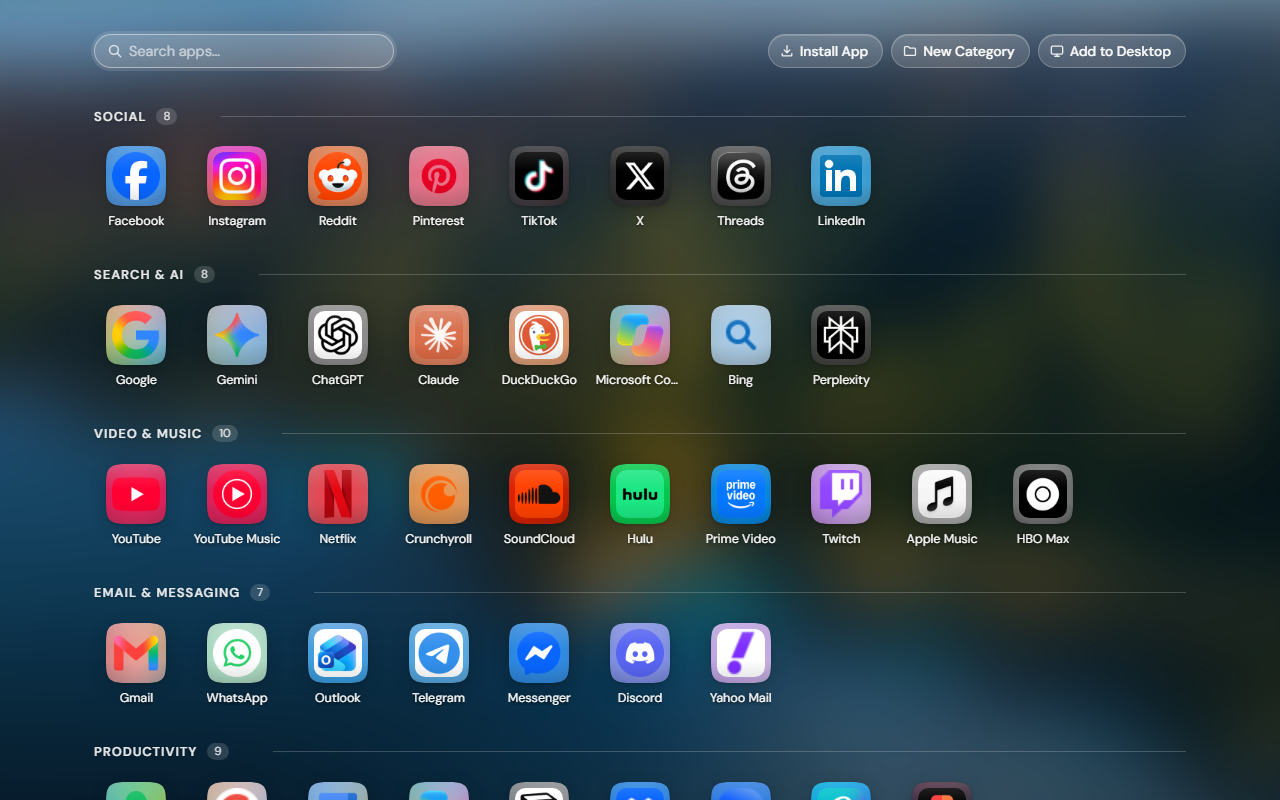
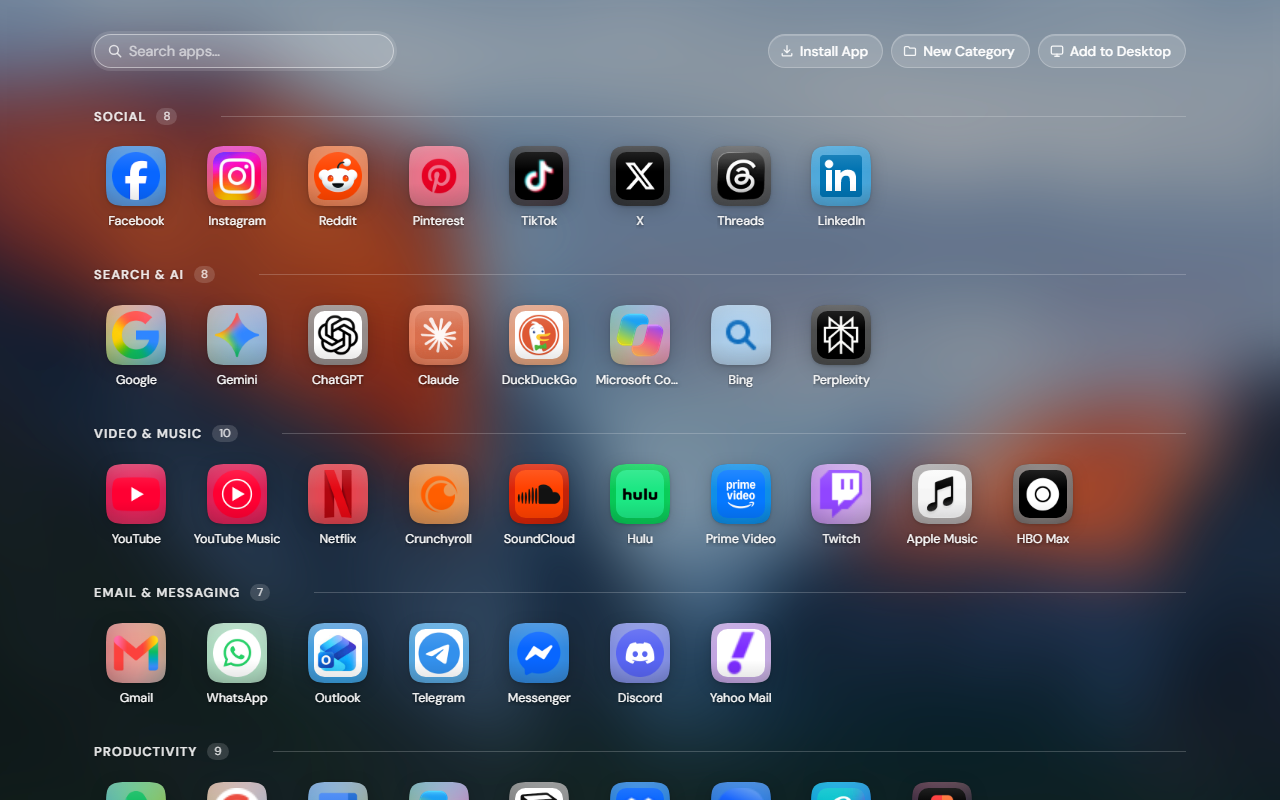
All Apps screenshot on El Capitan

diff --git a/store-listing/generator/render.py b/store-listing/generator/render.py
@@ -7,7 +7,7 @@ the live page.
 Writes, from index.html:
     store-listing/desktop/screenshot-1-desktop.png    1280x800, High Sierra, the desktop
     store-listing/desktop/screenshot-2-settings.png   1280x800, Tahoe, Settings open
-    store-listing/desktop/screenshot-3-apps.png       1280x800, Big Sur, All Apps open
+    store-listing/desktop/screenshot-3-apps.png       1280x800, El Capitan, All Apps open
 and the promo tiles, laid out by promo.html around a desktop captured here:
     store-listing/promo-440x280.png    the store's search tile: the whole desktop, on
                                        High Sierra, with the "Synced" window
@@ -41,7 +41,7 @@ SCREENSHOT = (1280, 800)
 SHOTS = [
     ('screenshot-1-desktop.png',  'high-sierra', None),
     ('screenshot-2-settings.png', 'tahoe',       'settings'),
-    ('screenshot-3-apps.png',     'big-sur',     'apps'),
+    ('screenshot-3-apps.png',     'el-capitan',  'apps'),
 ]
 
 # The search tile's desktop: the sample desktop on High Sierra, captured at the
